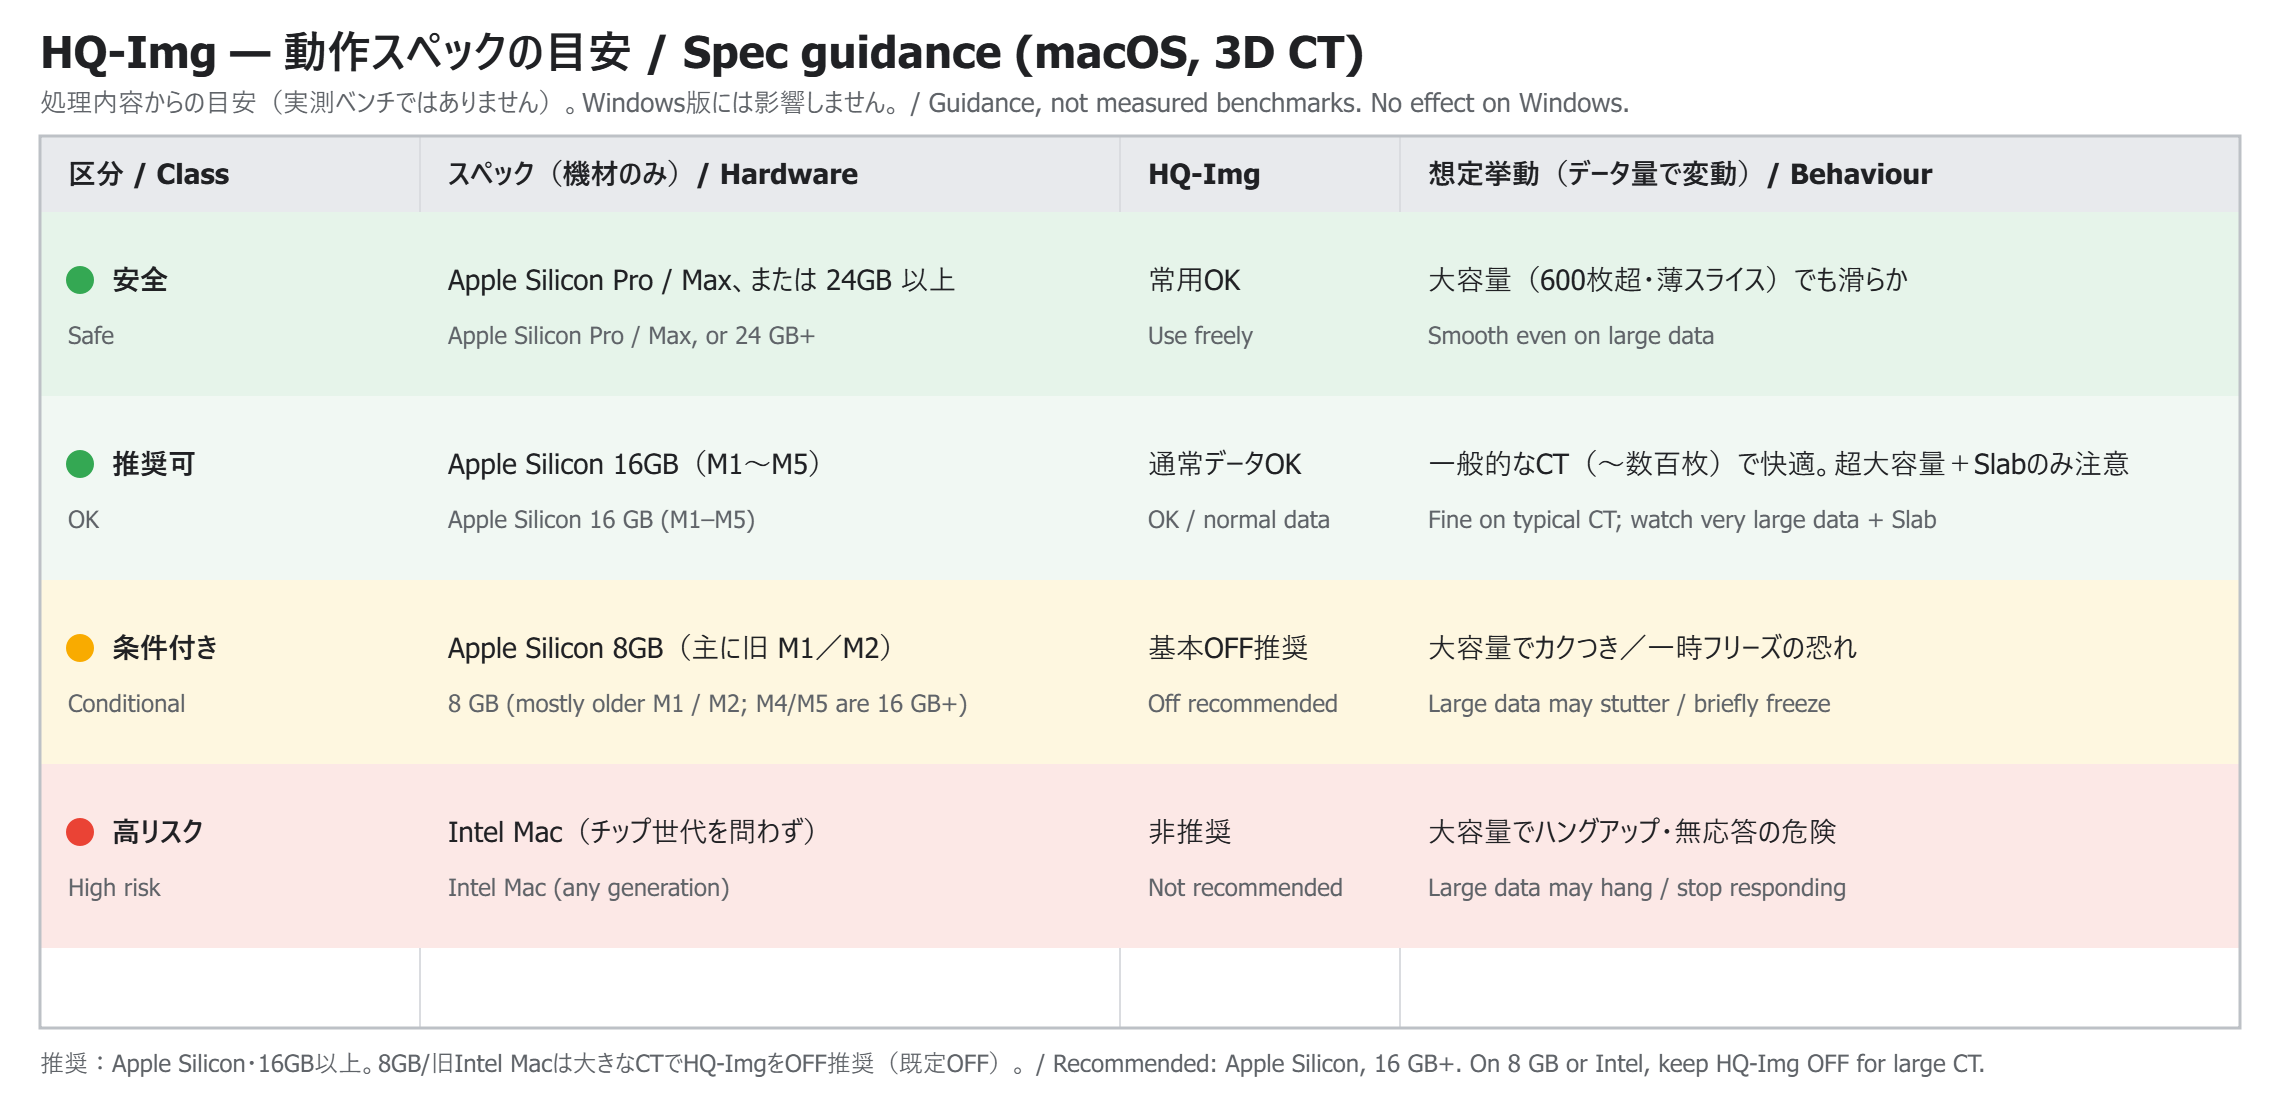
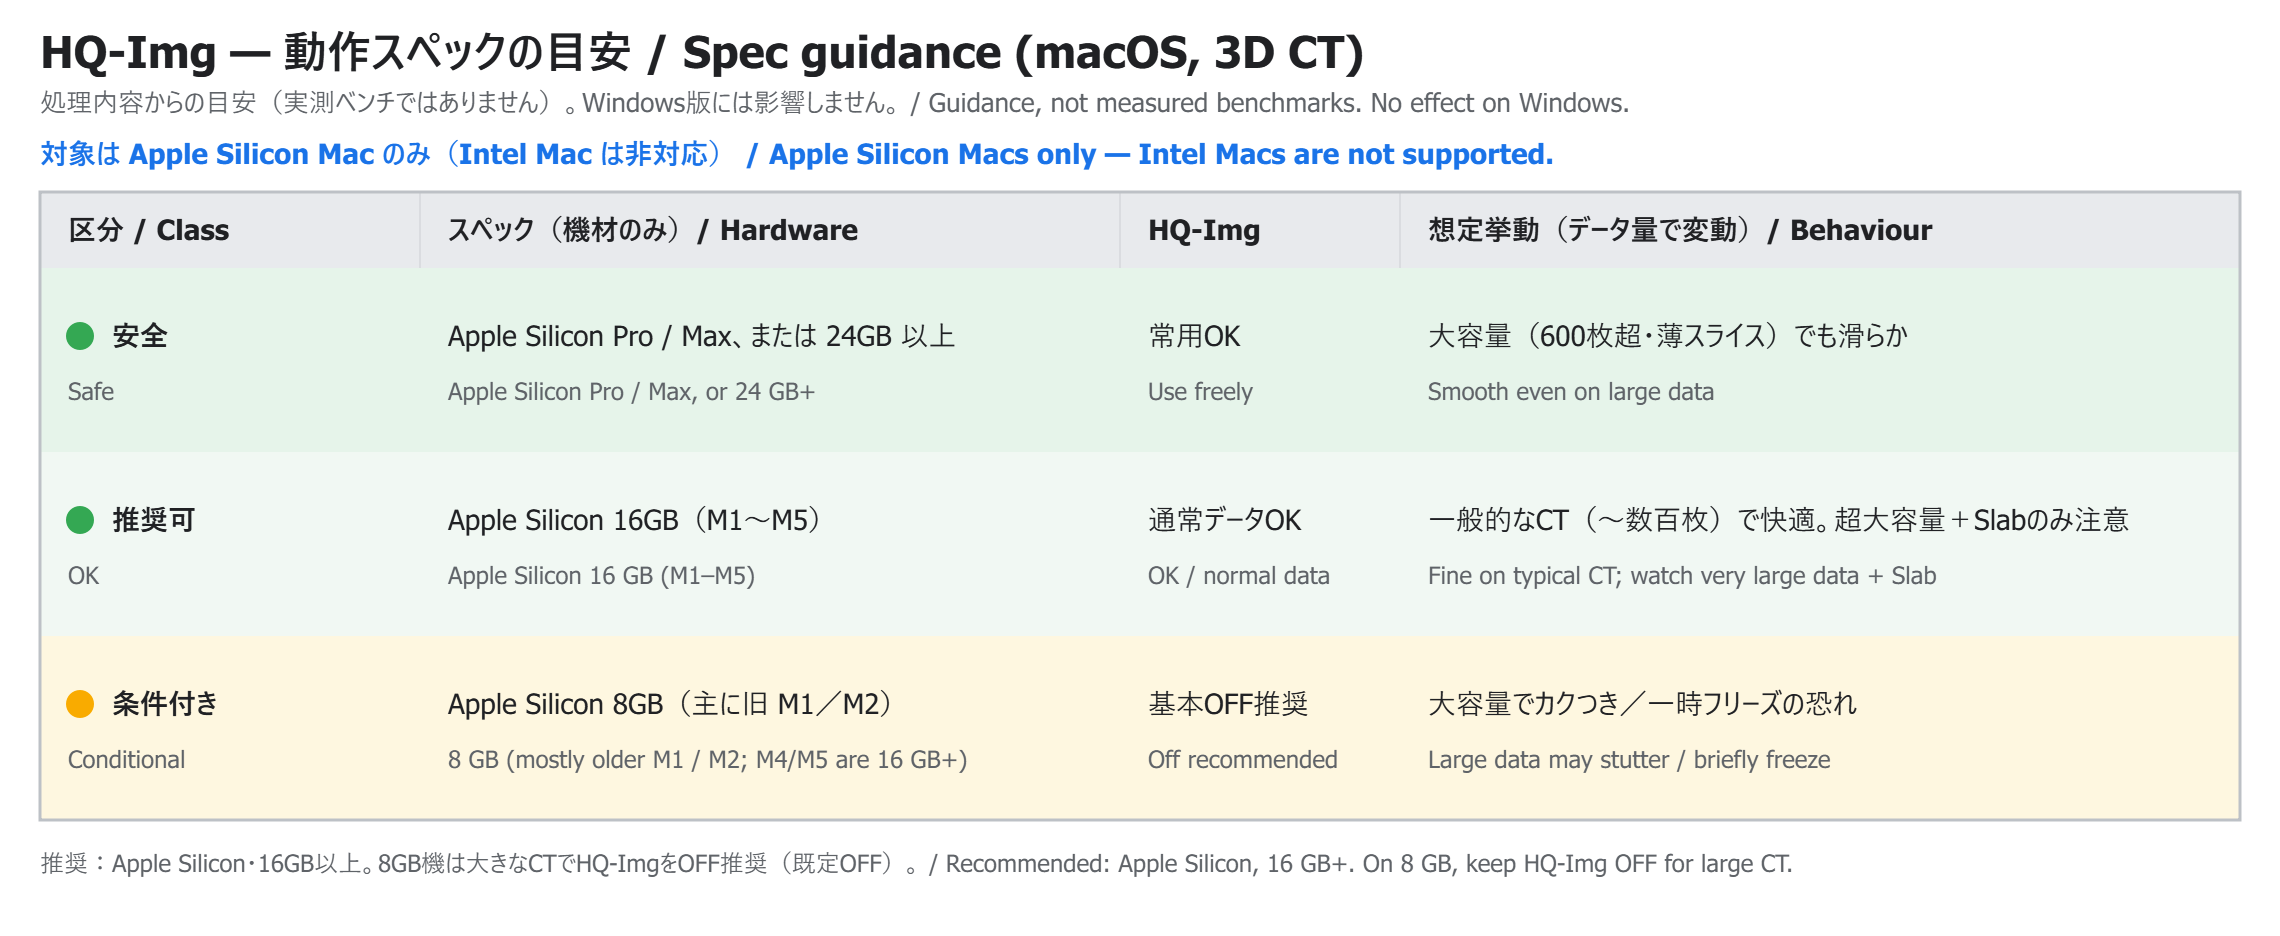
docs(hq-img): drop Intel-Mac row — macOS build is Apple Silicon (arm64) only
The distributed macOS app is built arm64-only (target_arch=None on an
arm64 runner), so it cannot launch on Intel Macs at all. Listing "Intel
Mac" as an HQ-Img risk tier was contradictory. Remove that row from the
spec image + README/notice tables and state "Apple Silicon only (Intel
not supported)" up front. Docs-only — no app version change.

diff --git a/docs/HQ-IMG_notice.md b/docs/HQ-IMG_notice.md
@@ -20,9 +20,12 @@
 
 ボタンは **Plane 段の最も左**にあり、**ON のときは青く**表示されます。**既定は OFF** です。
 
+> **対象は Apple Silicon Mac のみ**です。配布ビルドは arm64 のため、**Intel Mac では
+> 起動しません（非対応）**。下表はすべて Apple Silicon 機です。
+
 - **推奨環境：Apple Silicon・メモリ 16GB 以上**
-- **8GB の Mac（主に旧世代 M1／M2）や旧 Intel Mac** では、大きな CT データ（薄スライス・
-  多枚数）で**動作が重くなったり一時的に固まる**ことがあります。その場合は HQ-Img を
+- **8GB の Mac（主に旧世代 M1／M2）** では、大きな CT データ（薄スライス・多枚数）で
+  **動作が重くなったり一時的に固まる**ことがあります。その場合は HQ-Img を
   **OFF（既定）**にしてください。
 
 | 区分 | スペック（機材のみ） | HQ-Img | 想定挙動（データ量で変動） |
@@ -30,7 +33,6 @@
 | 🟢 安全 | Apple Silicon **Pro / Max**、または **24GB 以上** | 常用OK | 大きなデータ（600枚超・薄スライス）でも滑らか |
 | 🟢 推奨可 | Apple Silicon **16GB**（M1〜M5） | 通常データOK | 一般的な CT（〜数百枚）で快適。超大容量＋Slab 同時のみ注意 |
 | 🟡 条件付き | Apple Silicon **8GB**（主に旧世代 M1／M2。M4/M5 は 16GB〜） | 基本OFF推奨 | データが大きいほど重く、大容量で**カクつき／一時フリーズ**の恐れ |
-| 🔴 高リスク | **Intel Mac**（チップ世代を問わず） | 非推奨 | フル画質再構成が重く、大きなデータで**ハングアップ・無応答**の危険 |
 
 **補足**
 - 「大容量」は **CT データの大きさ**（スライス枚数・薄さ）を指し、マシンスペックとは別の要因です。
@@ -51,17 +53,19 @@ heavier on the GPU and unified memory.
 The button is at the **far left of the Plane row**; the **blue state means ON**.
 **Default is OFF.**
 
+> **Apple Silicon Macs only.** The build is arm64, so it **will not launch on
+> Intel Macs** (unsupported). The table below is all Apple Silicon.
+
 - **Recommended: Apple Silicon with 16 GB or more.**
-- On **8 GB Macs (mostly older M1 / M2)** or **older Intel Macs**, large CT data
-  (thin slices, many images) may **stutter or briefly freeze** — turn HQ-Img
-  **OFF** (the default) in that case.
+- On **8 GB Macs (mostly older M1 / M2)**, large CT data (thin slices, many
+  images) may **stutter or briefly freeze** — turn HQ-Img **OFF** (the default)
+  in that case.
 
 | Class | Hardware (machine only) | HQ-Img | Behaviour (varies with data size) |
 |---|---|---|---|
 | 🟢 Safe | Apple Silicon **Pro / Max**, or **24 GB+** | Use freely | Smooth even on large data (600+ slices, thin) |
 | 🟢 OK | Apple Silicon **16 GB** (M1–M5) | OK for normal data | Comfortable on typical CT (~hundreds of slices); watch only very large data + Slab together |
 | 🟡 Conditional | Apple Silicon **8 GB** (mainly older M1 / M2; M4/M5 ship with 16 GB+) | Off recommended | Heavier as data grows; large data may stutter / briefly freeze |
-| 🔴 High risk | **Intel Mac** (any generation) | Not recommended | Full-quality reconstruction is heavy; large data may hang / stop responding |
 
 **Notes**
 - "Large data" means the **size of the CT** (slice count / thinness) — a separate

diff --git a/README.md b/README.md
@@ -66,6 +66,9 @@ Or launch with no argument and use **File ▸ Open DICOM folder…**.
 
 ## macOS build — first launch
 
+**Apple Silicon only.** The prebuilt macOS app is an **arm64** build, so it runs
+on Apple Silicon Macs (M1 and later). **Intel Macs are not supported.**
+
 **No workaround needed (v1.5.0 and later).** The prebuilt macOS app
 (`Multi-DicomViewer.app`, shipped in `Multi-DicomViewer-macos.zip`) is now
 **code-signed with a Developer ID, notarized by Apple, and stapled**, so
@@ -109,16 +112,19 @@ re-reconstructs every frame, so it is heavier on GPU and unified memory. The
 button sits at the far left of the Plane row; the blue state means ON. Default
 is OFF.
 
+> **Apple Silicon only.** The macOS build is arm64 — **Intel Macs are not
+> supported** (the app will not launch on them). The table below is therefore
+> all Apple Silicon.
+
 **Recommended: Apple Silicon with 16 GB or more.** On 8 GB Macs (mostly older
-M1 / M2) or older Intel Macs, large CT data (thin slices, many images) may
-stutter or briefly freeze — turn HQ-Img **OFF** in that case.
+M1 / M2), large CT data (thin slices, many images) may stutter or briefly
+freeze — turn HQ-Img **OFF** in that case.
 
 | Class | Hardware (machine only) | HQ-Img | Behaviour (varies with data size) |
 |---|---|---|---|
 | 🟢 Safe | Apple Silicon **Pro / Max**, or **24 GB+** | Use freely | Smooth even on large data (600+ slices, thin) |
 | 🟢 OK | Apple Silicon **16 GB** (M1–M5) | OK for normal data | Comfortable on typical CT (~hundreds of slices); watch only very large data + Slab together |
 | 🟡 Conditional | Apple Silicon **8 GB** (mainly older M1 / M2; M4/M5 ship with 16 GB+) | Off recommended | Heavier as data grows; large data may stutter / briefly freeze |
-| 🔴 High risk | **Intel Mac** (any generation) | Not recommended | Full-quality reconstruction is heavy; large data may hang / stop responding |
 
 > Figures are guidance derived from the processing involved, **not measured
 > benchmarks**. (No effect on the Windows build.) A bilingual notice and a
